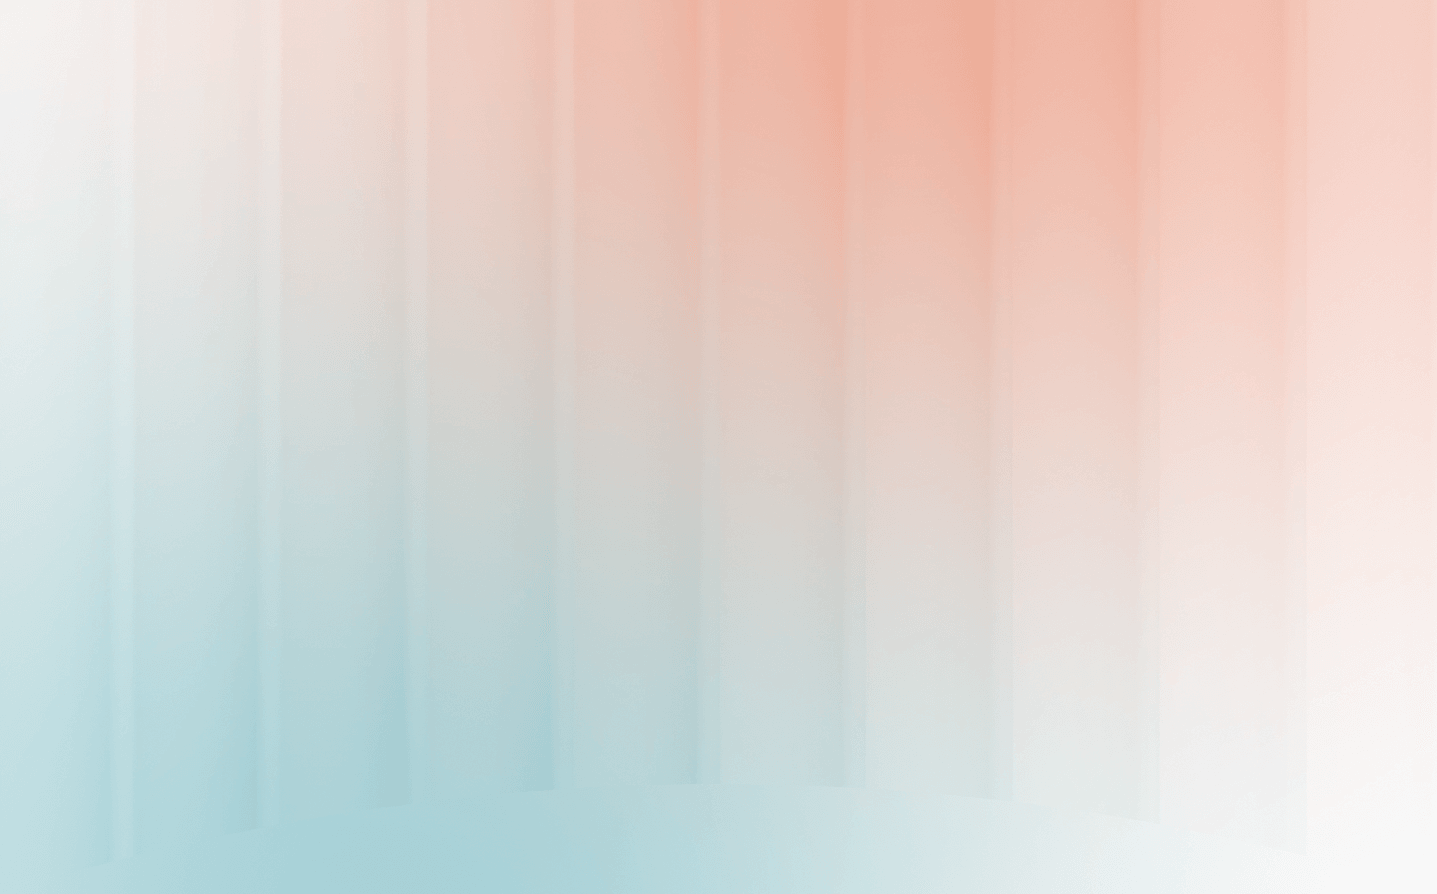
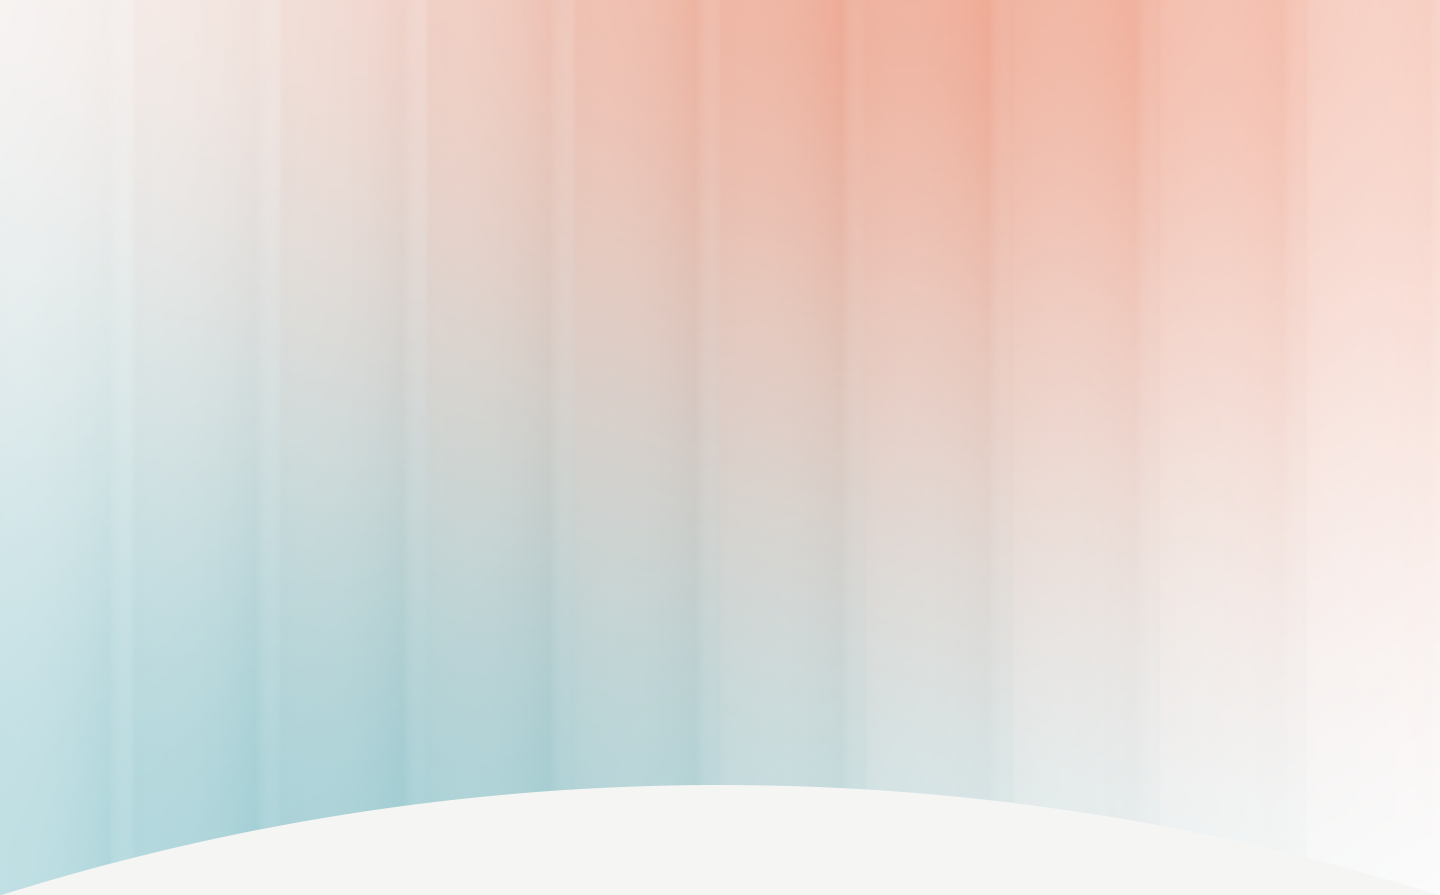
Refactor code structure for improved readability and maintainability

Changed region(s): [[0.0, 0.8758, 0.7042, 1.0]]

diff --git a/frontend/components/sections/VoiceAgents.tsx b/frontend/components/sections/VoiceAgents.tsx
@@ -46,6 +46,7 @@ export const VoiceAgents = ({ content }: { content: HomeVoiceAgentsContent }) =>
   const cardElementsRef = useRef(new Map<string, HTMLElement>());
   const selectedIdRef = useRef(selectedId);
   const programmaticScrollUntilRef = useRef(0);
+  const videoRefs = useRef<Record<string, HTMLVideoElement | null>>({});
 
   const selectedScenario = useMemo(
     () =>
@@ -287,6 +288,12 @@ export const VoiceAgents = ({ content }: { content: HomeVoiceAgentsContent }) =>
                   {isActive ? (
                     <div className="flex h-full flex-row">
                       <motion.video
+                        ref={(el) => {
+                          if (el) {
+                            videoRefs.current[scenario.id] = el;
+                            el.play().catch(() => {});
+                          }
+                        }}
                         className="h-full w-[33.2%] min-w-[208px] object-cover object-center"
                         initial={{ opacity: 0.8, scale: 1.04 }}
                         animate={{ opacity: 1, scale: 1 }}
@@ -361,12 +368,25 @@ export const VoiceAgents = ({ content }: { content: HomeVoiceAgentsContent }) =>
                   ) : (
                     <>
                       <video
+                        ref={(el) => {
+                          if (el) videoRefs.current[scenario.id] = el;
+                        }}
                         className="absolute inset-0 h-full w-full object-cover object-center transition-all duration-500 group-hover:scale-[1.03]"
                         src={scenario.video}
-                        autoPlay
                         loop
                         muted
                         playsInline
+                        onMouseEnter={() => {
+                          const video = videoRefs.current[scenario.id];
+                          if (video) video.play();
+                        }}
+                        onMouseLeave={() => {
+                          const video = videoRefs.current[scenario.id];
+                          if (video && scenario.id !== selectedId) {
+                            video.pause();
+                            video.currentTime = 0;
+                          }
+                        }}
                       />
                       <span className="pointer-events-none absolute inset-0 bg-[linear-gradient(180deg,rgba(19,24,37,0)_35%,rgba(20,25,37,0.55)_100%)] opacity-95 transition-opacity duration-400" />
                     </>
@@ -407,6 +427,12 @@ export const VoiceAgents = ({ content }: { content: HomeVoiceAgentsContent }) =>
                       }}
                     >
                       <motion.video
+                        ref={(el) => {
+                          if (el) {
+                            videoRefs.current[scenario.id] = el;
+                            el.play().catch(() => {});
+                          }
+                        }}
                         className="h-44 w-full shrink-0 object-cover object-top sm:h-full sm:w-[36%] sm:object-center"
                         animate={{ opacity: 1, scale: 1 }}
                         initial={{ opacity: 0.8, scale: 1.04 }}
@@ -489,6 +515,17 @@ export const VoiceAgents = ({ content }: { content: HomeVoiceAgentsContent }) =>
                       setProgress(0);
                       stopPlayback();
                     }}
+                    onMouseEnter={() => {
+                      const video = videoRefs.current[scenario.id];
+                      if (video) video.play();
+                    }}
+                    onMouseLeave={() => {
+                      const video = videoRefs.current[scenario.id];
+                      if (video && scenario.id !== selectedId) {
+                        video.pause();
+                        video.currentTime = 0;
+                      }
+                    }}
                     ref={(el: HTMLElement | null) => {
                       if (el) {
                         el.dataset.scenarioId = scenario.id;
@@ -509,10 +546,12 @@ export const VoiceAgents = ({ content }: { content: HomeVoiceAgentsContent }) =>
                     }}
                   >
                     <video
+                      ref={(el) => {
+                        if (el) videoRefs.current[scenario.id] = el;
+                      }}
                       aria-hidden="true"
                       className="absolute inset-0 h-full w-full object-cover object-center transition-all duration-500 group-hover:scale-[1.03]"
                       src={scenario.video}
-                      autoPlay
                       loop
                       muted
                       playsInline

diff --git a/frontend/components/sections/Hero.tsx b/frontend/components/sections/Hero.tsx
@@ -24,7 +24,7 @@ export const Hero = ({ content }: { content: HomeHeroContent }) => {
   return (
     <>
     <section id="hero" className="relative isolate min-h-[820px]">
-      <div className="absolute inset-0 -z-10 -top-50">
+      <div className="absolute inset-0 -z-10 -top-190">
         <Image
           src={content.background?.url ?? "/assets/herobg.png"}
           fill
